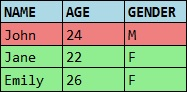
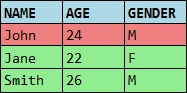
updated readme

diff --git a/README.md b/README.md
@@ -13,7 +13,7 @@ Consider having 2 arrays of objects and you want to find the difference between 
 var persons = [
   {name: 'John', age: 24, gender: 'M'},
   {name: 'Jane', age: 22, gender: 'F'},
-  {name: 'Emily', age: 26, gender: 'F'}
+  {name: 'Smith', age: 26, gender: 'M'}
 ];
 
 console.diffTable(persons, [{name: 'John', age: 24, gender: 'M'}]);
